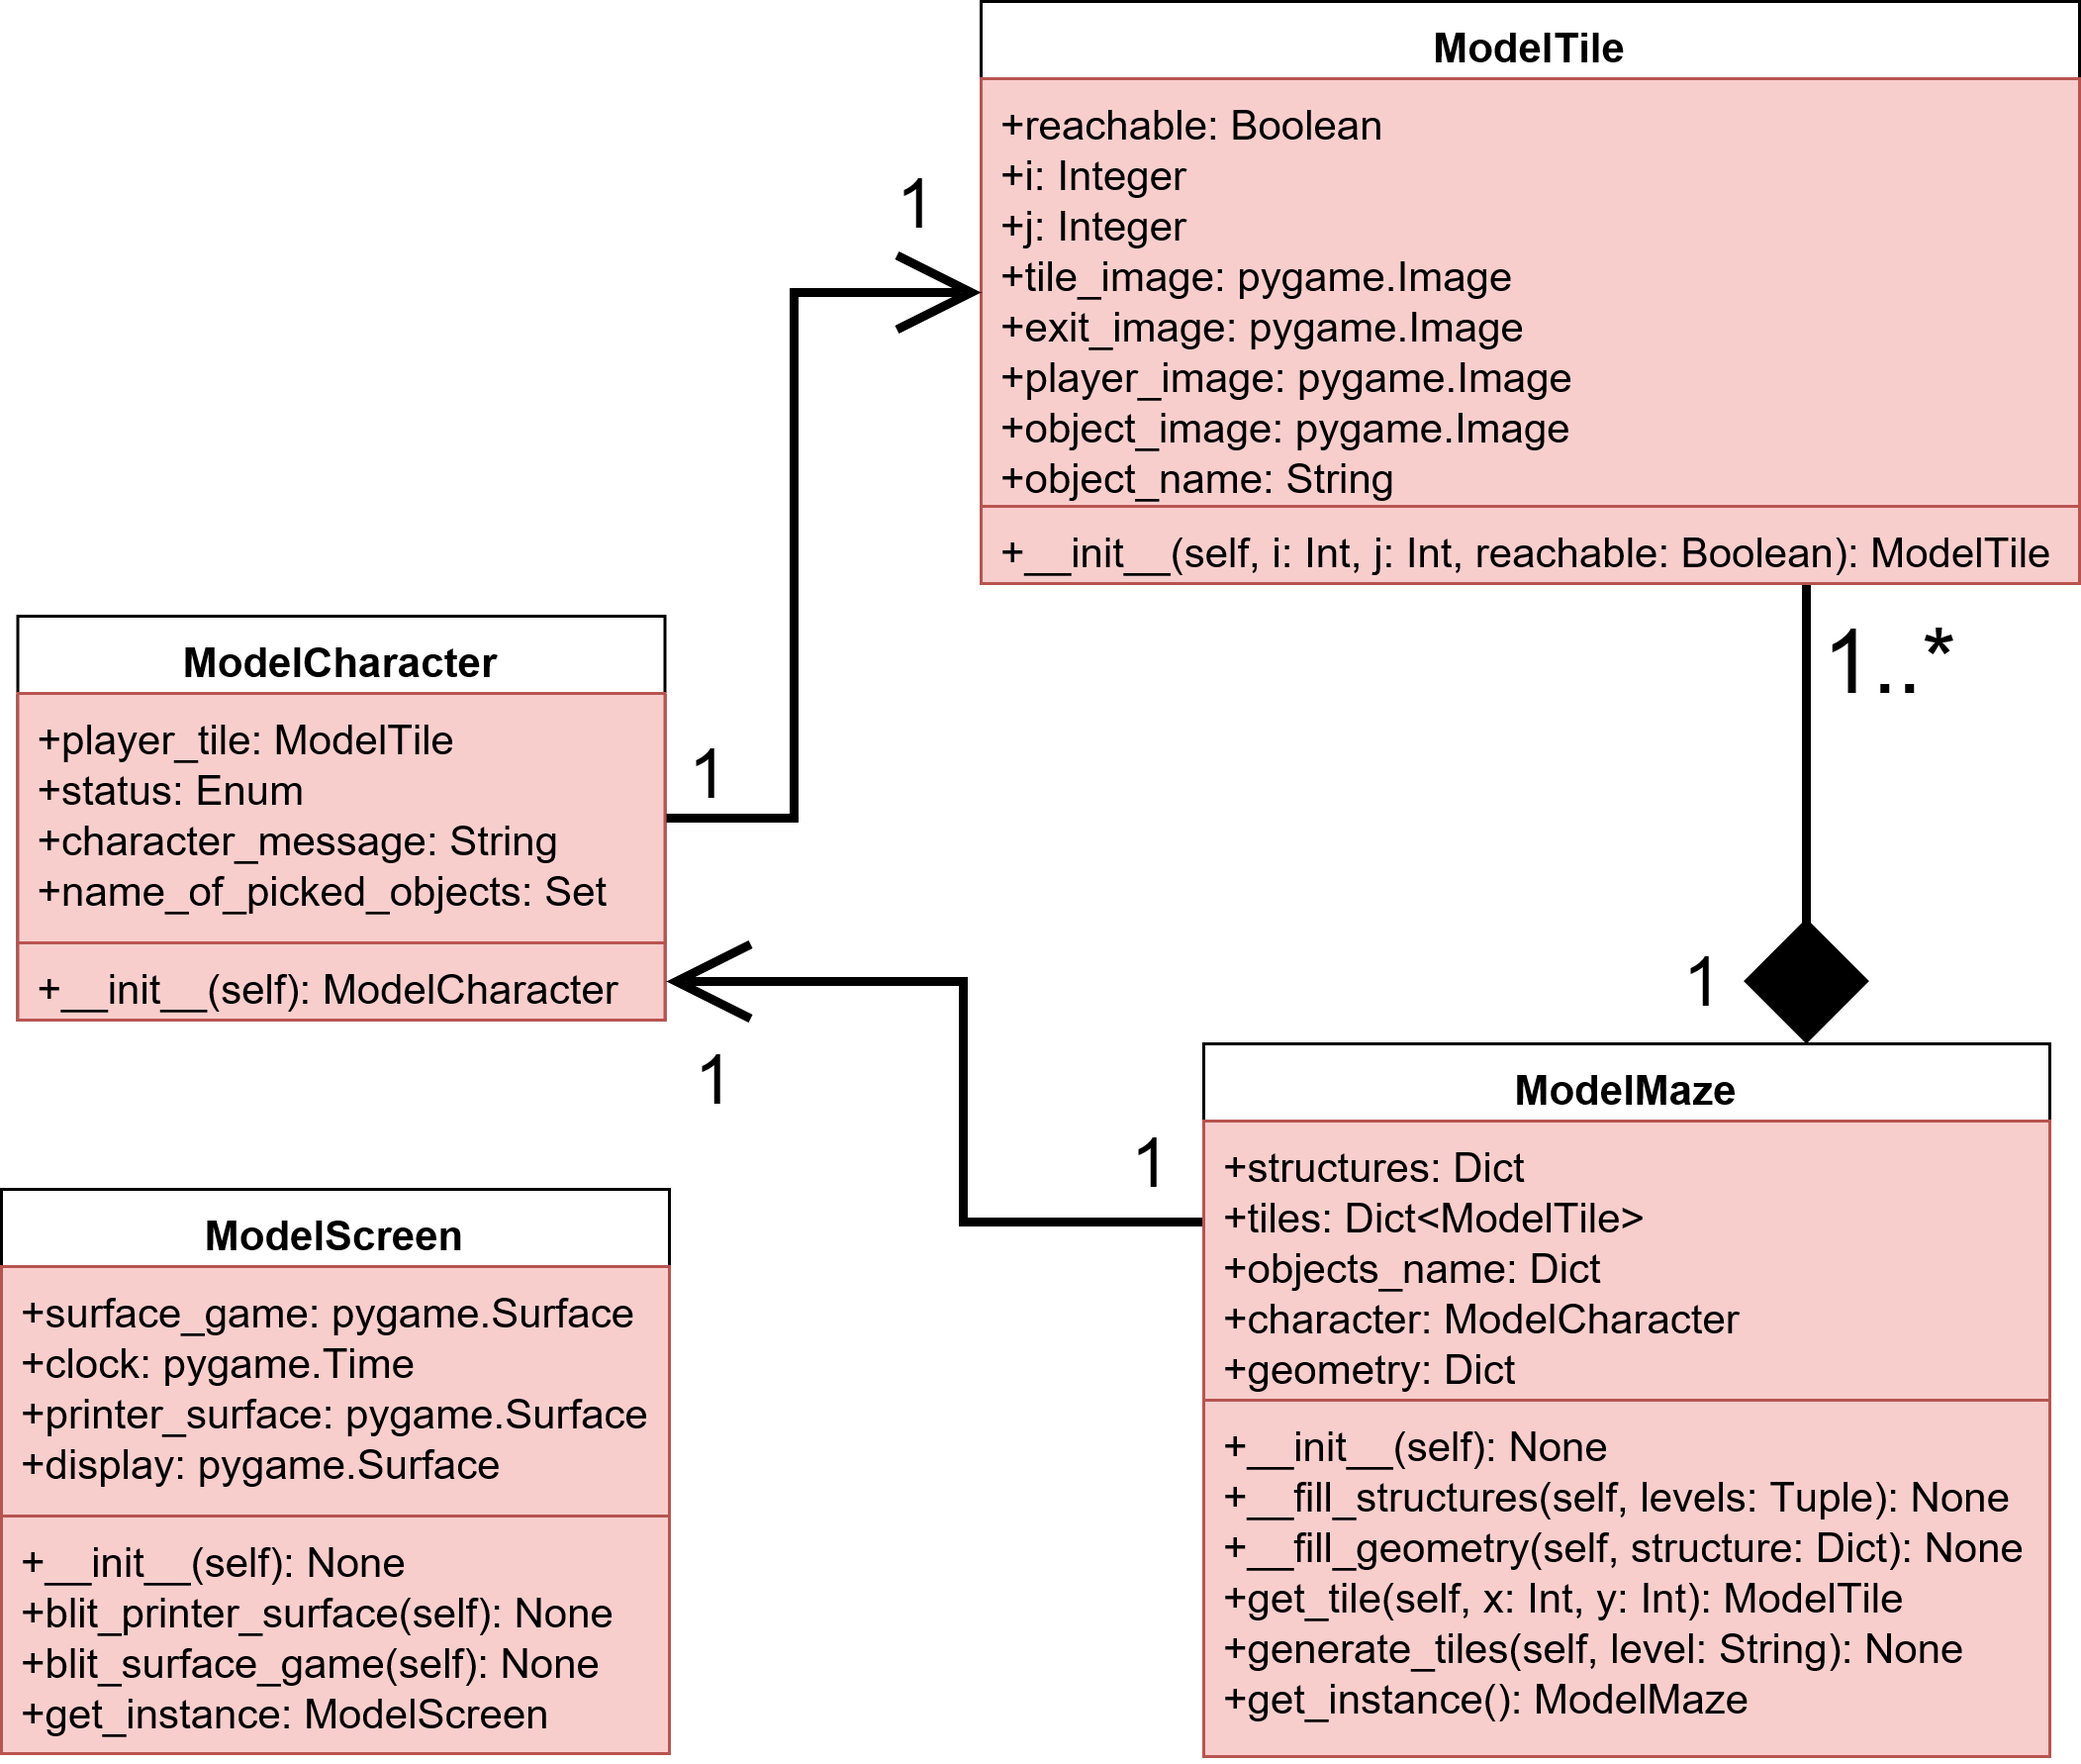
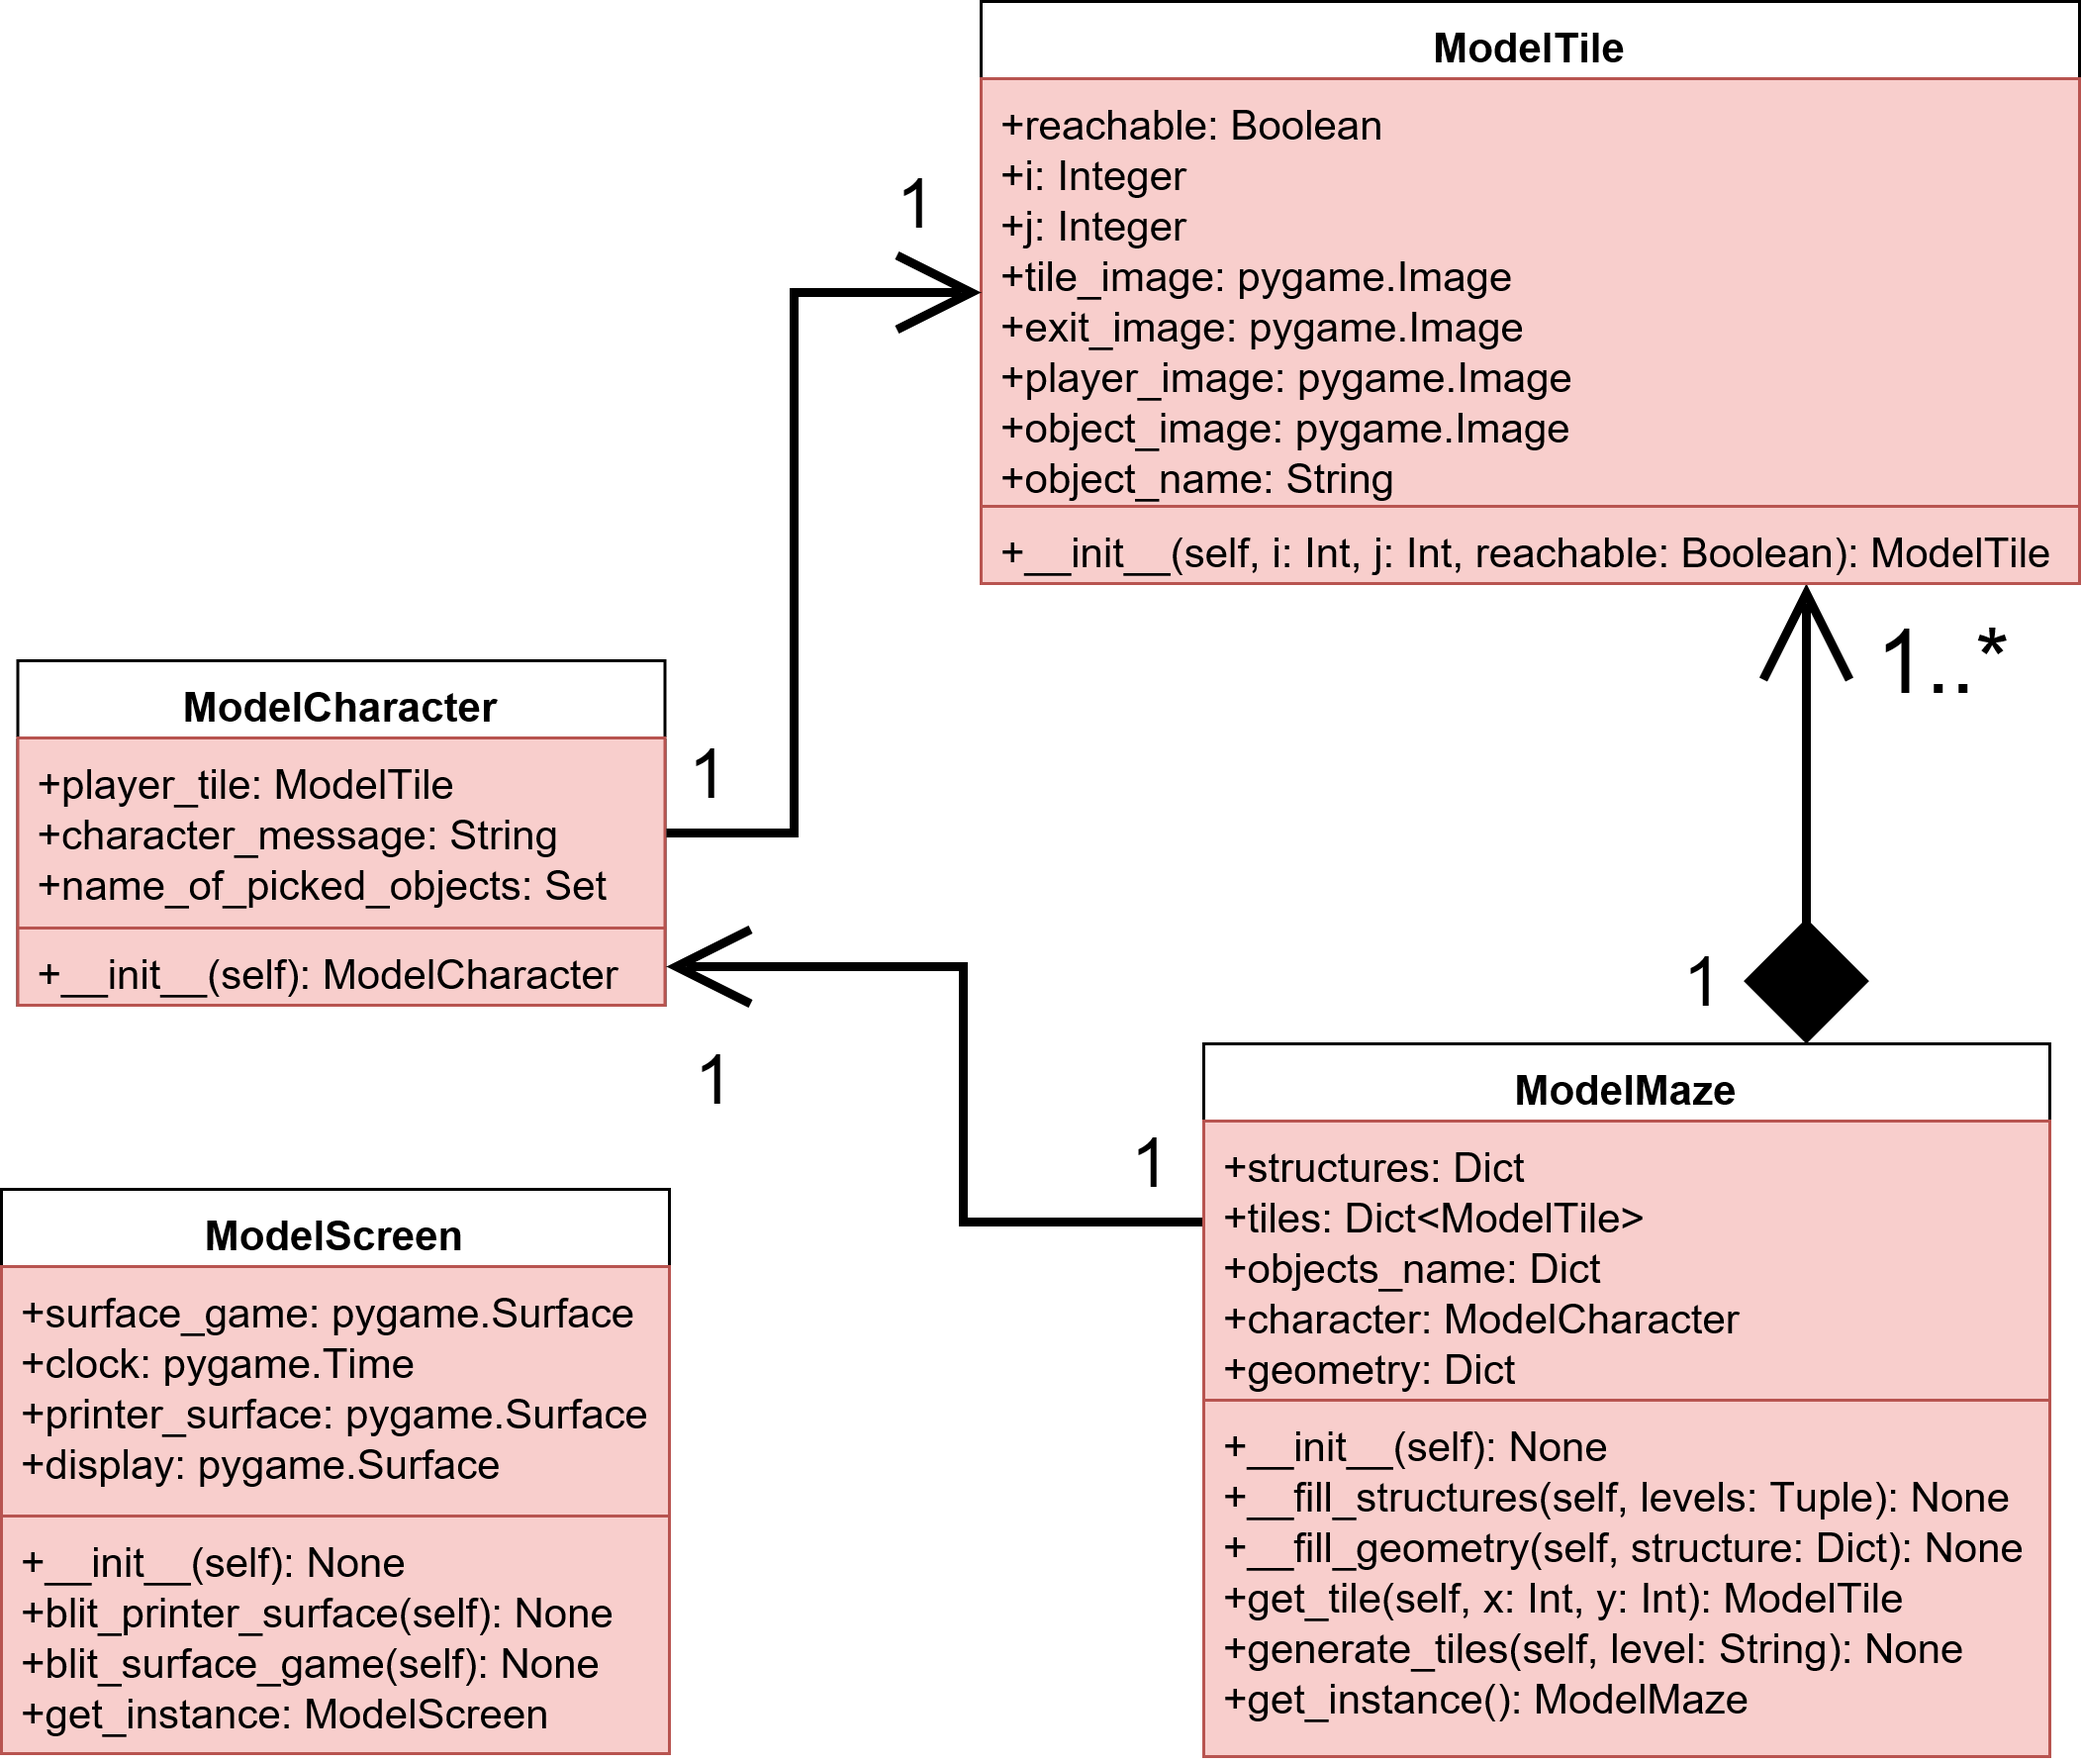
correction de la logique.

Changed region(s): [[0.0, 0.3704, 0.4636, 0.5864], [0.8345, 0.3395, 0.9582, 0.4012], [0.3091, 0.463, 0.4018, 0.4938]]

diff --git a/managers.py b/managers.py
@@ -4,7 +4,6 @@ from pygame import locals as pg_var
 from constants import *
 
 from states import LevelScreenState, LoseScreenState, WinScreenState
-from models import Status
 
 
 class Store:
@@ -42,22 +41,19 @@ class Store:
                 self.selected_state.increment_level()
                 if not self.selected_state.next_state:
                     self.selected_state.maze.generate_tiles(LEVELS[self.selected_state.level_cursor])
+                    return False
                 else:
                     self.selected_state.maze.tiles = {}
             else:
                 self.selected_state.next_state = True
+        return True
 
     def set_initial(self):
         self.selected_state = LevelScreenState()
 
     def set_next_state(self):
         if self.selected_state.next_state:
-            if type(self.selected_state) == LevelScreenState:
-                if self.selected_state.maze.character.status == Status.win:
-                    self.selected_state = WinScreenState()
-                elif self.selected_state.maze.character.status == Status.lose:
-                    self.selected_state = LoseScreenState(**self.selected_state.data_for_next_state)
-            elif type(self.selected_state) == WinScreenState or type(self.selected_state) == LoseScreenState:
+            if type(self.selected_state) == WinScreenState or type(self.selected_state) == LoseScreenState:
                 self.selected_state = LevelScreenState()
 
     def quit_state(self):
@@ -68,39 +64,24 @@ class GameManager:
     """this class deals with the smooth running of the states"""
 
     @staticmethod
-    def update_graphic_callback():
-        return GraphicManager.update_graphic()
-
-    @staticmethod
-    def update_log_callback():
-        return LogManager.update_log()
-
-    @staticmethod
-    def listen_event_callback(listen):
-        return InputManager.listen_event(listen)
-
-    @staticmethod
     def start():
         """ this method start the game with the main loop """
         game_loop = True
         store = Store.get_instance()
-        state = store.get_state()
 
         while game_loop:
-
+            state = store.get_state()
             if state.reboot or state.next_state:
                 if state.reboot:
                     store.set_initial()
                 elif state.next_state:
                     store.set_next_state()
-
-                state = store.get_state()
             elif state.quit:
                 game_loop = False
             else:
-                GameManager.listen_event_callback(state.listen)
-                GameManager.update_graphic_callback()
-                GameManager.update_log_callback()
+                InputManager.listen_event(state.listen)
+                GraphicManager.update_graphic()
+                LogManager.update_log()
 
                 # refresh the screen
                 pygame.display.flip()
@@ -144,35 +125,21 @@ class GameManager:
         store = Store.get_instance()
         state = store.get_state()
 
-        GameManager.update_graphic_callback()
+        GraphicManager.update_graphic()
 
         # if the player have got all objects in the maze, he win else he lose.
         if len(state.maze.character.name_of_picked_objects) == len(state.maze.objects_name):
-            state.maze.character.status = Status.win
+            if store.next_state():
+                store.selected_state = WinScreenState()
         else:
-            state.maze.character.status = Status.lose
-
-        GameManager.next_state()
+            state.data_for_next_state['missing_object'] = state.maze.objects_name - \
+                                                          state.maze.character.name_of_picked_objects
+            store.selected_state = LoseScreenState(**state.data_for_next_state)
+            print("lddsfoisfdiosdfji")
 
 
 class InputManager:
     """ this class allows you to listen keys on the keyboard """
-
-    @staticmethod
-    def reboot_state_callback():
-        return GameManager.reboot_state()
-
-    @staticmethod
-    def move_callback(direction):
-        return MotionManager.move(direction)
-
-    @staticmethod
-    def next_state_callback():
-        return GameManager.next_state()
-
-    @staticmethod
-    def quit_state_callback():
-        return GameManager.quit()
 
     @staticmethod
     def listen_event(listen):
@@ -180,17 +147,16 @@ class InputManager:
             for _type in listen['type']:
                 if event.type == getattr(pg_var, _type, None):
                     if _type == 'QUIT':
-                        InputManager.quit_state_callback()
+                        GameManager.quit()
                     elif _type == 'KEYDOWN':
                         for _key in listen['key']:
                             if event.key == getattr(pg_var, _key):
                                 if _key == 'K_ESCAPE':
-                                    InputManager.reboot_state_callback()
+                                    GameManager.reboot_state()
                                 elif _key in ('K_UP', 'K_DOWN', 'K_LEFT', 'K_RIGHT'):
-                                    InputManager.move_callback(_key)
-
+                                    MotionManager.move(_key)
                                 elif _key == 'K_RETURN':
-                                    InputManager.next_state_callback()
+                                    GameManager.next_state()
                                 break
                     break
 
@@ -259,14 +225,6 @@ class LogManager:
 class MotionManager:
     """ A manager that handles entities movements """
 
-    @staticmethod
-    def face_guardian_callback():
-        return GameManager.face_guardian()
-
-    @staticmethod
-    def collect_item_callback(object_name):
-        return GameManager.collect_item(object_name)
-
     direction_dict = {'K_LEFT': lambda x, y: (x - 1, y),
                       'K_RIGHT': lambda x, y: (x + 1, y),
                       'K_UP': lambda x, y: (x, y - 1),
@@ -306,14 +264,14 @@ class MotionManager:
                     # remove the exit_image
                     target_tile.exit_image = None
 
-                    MotionManager.face_guardian_callback()
+                    GameManager.face_guardian()
 
                 # else if the current_tile have an object image, the player get the object
                 elif target_tile.object_image:
                     # clean the tile
                     target_tile.object_image = None
 
-                    MotionManager.collect_item_callback(target_tile.object_name)
+                    GameManager.collect_item(target_tile.object_name)
 
                     target_tile.object_name = None
 

diff --git a/states.py b/states.py
@@ -1,7 +1,7 @@
 from abc import ABC
 
 from constants import *
-from models import ModelScreen, ModelMaze, Status
+from models import ModelScreen, ModelMaze
 
 
 class State(ABC):
@@ -36,15 +36,7 @@ class LevelScreenState(State):
         except IndexError:
             self.next_state = True
         else:
-
-            if self.maze.character.status == Status.lose:
-                self.next_state = True
-            else:
-                self.title = LEVELS[self.level_cursor]
-
-        if self.next_state and self.maze.character.status == Status.lose:
-            self.data_for_next_state['missing_object'] = self.maze.objects_name - \
-                                                         self.maze.character.name_of_picked_objects
+            self.title = LEVELS[self.level_cursor]
 
 
 class LoseScreenState(State):

diff --git a/models.py b/models.py
@@ -203,9 +203,6 @@ class ModelMaze:
         return ModelMaze.__instance
 
 
-Status = Enum('Status', 'process win lose')
-
-
 class ModelCharacter:
     """This class represents all the informations about the character"""
 
@@ -213,7 +210,5 @@ class ModelCharacter:
         self.player_tile = tile_player
 
         # The status is used to determine which player has lost or won since the game_loop
-        self.status = Status.process
         self.character_message = "..."
-
         self.name_of_picked_objects = set()
